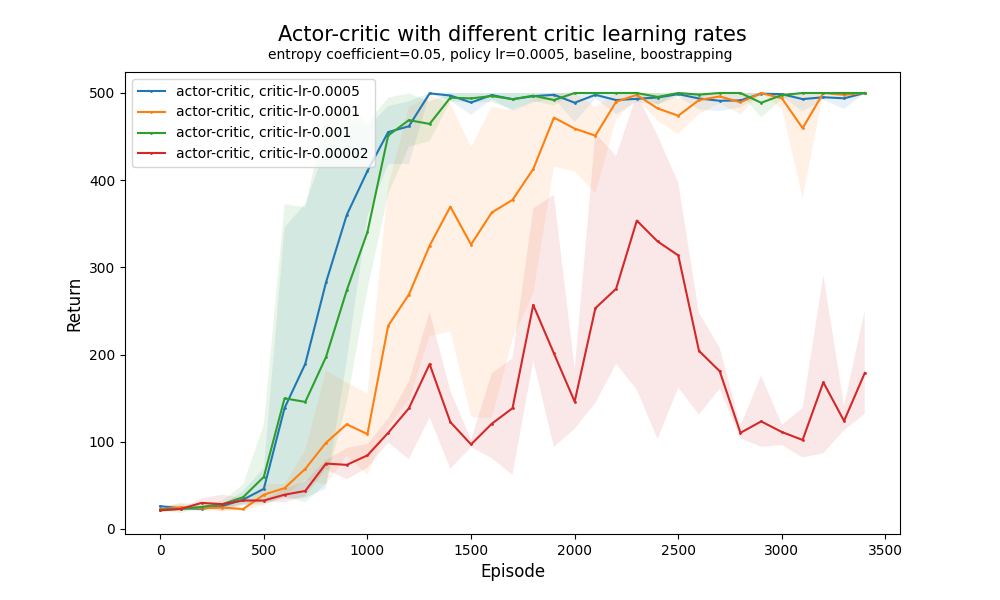
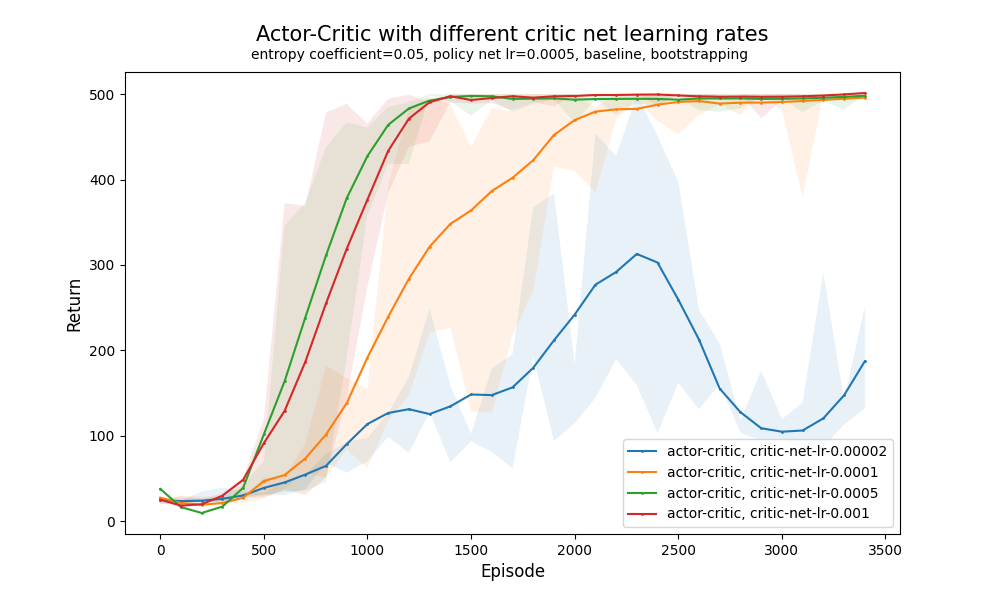
rebuild

diff --git a/plots/plotting_actor_critic_REINFORCE.py b/plots/plotting_actor_critic_REINFORCE.py
@@ -1,0 +1,73 @@
+import os
+
+import matplotlib.pyplot as plt
+import numpy as np
+
+from plotHelper import smooth
+
+# Get the list of files in the directory
+data_dir = './data4plot'
+files = os.listdir(data_dir)
+
+# Create a figure and axis
+fig, ax = plt.subplots()
+
+# Increase the figure size
+fig.set_size_inches(10, 6)
+# Plot each file as a separate line
+for file in files:
+    if 'actor-critic' in file or 'REINFORCE.npy' in file:
+        if 'ppo' in file:
+            continue
+        elif '0.01' in file:
+            continue
+        elif '0.002' in file:
+            continue
+        else:
+            file_path = os.path.join(data_dir, file)
+            data = np.load(file_path)
+            ks = np.arange(35)*100
+            avs = np.mean(data, axis=0)
+            maxs = np.max(data, axis=0)
+            mins = np.min(data, axis=0)
+            plt.fill_between(ks, mins, maxs, alpha=0.1)
+        # decide if the file name has two "."
+            is_two_dot = len(file.split('.')) == 3
+            if is_two_dot:
+
+                split_file = (file.split('.')[0] + '.' + file.split('.')[1]).split('_')
+                # remove the first element of the list
+                split_file.pop(0)
+                # combine split_file with ","
+                label = ", ".join(split_file)
+                # plt.plot(ks, avs, '-o', markersize=1, label=label)
+
+                plt.plot(ks, smooth(avs, 10), '-o', markersize=1, label=label)
+
+                plt.xlabel('Episode', fontsize = 12)
+                plt.ylabel('Return', fontsize = 12)
+                # ax.plot(data, label=file)
+            else:
+                split_file = (file.split('.')[0]).split('_')
+                # remove the first element of the list
+                split_file.pop(0)
+                label = ", ".join(split_file)
+                # plt.plot(ks, avs, '-o', markersize=1, label=label)
+
+                plt.plot(ks, smooth(avs, 10), '-o', markersize=1, label=label)
+
+                plt.xlabel('Episode', fontsize = 12)
+                plt.ylabel('Return', fontsize = 12)
+
+# Add legend
+ax.legend()
+# add title
+plt.title("Actor-Critic VS REINFORCE", fontsize = 15, y=1.05)
+# add subtitle and make it under the title
+plt.suptitle("policy net lr=0.0005, critic net lr=0.0005", fontsize = 10, y=0.92)
+# Use .fillbetween method to make the plot nicer
+# ...
+#save the plot to ./plots
+plt.savefig('./plots/actor_critic_REINFORCE.png')
+# Show the plot
+# plt.show()

diff --git a/plots/plotHelper.py b/plots/plotHelper.py
@@ -1,0 +1,57 @@
+#!/usr/bin/env python3
+# -*- coding: utf-8 -*-
+"""
+Practical for course 'Reinforcement Learning',
+Leiden University, The Netherlands
+By Thomas Moerland
+"""
+
+import numpy as np
+import matplotlib.pyplot as plt
+from scipy.signal import savgol_filter
+
+# Helper functions for plotting
+class LearningCurvePlot:
+
+    def __init__(self,title=None):
+        self.fig,self.ax = plt.subplots()
+        self.ax.set_xlabel('Timestep')
+        self.ax.set_ylabel('Episode Return')      
+        if title is not None:
+            self.ax.set_title(title)
+        
+    def add_curve(self,x,y,label=None):
+        ''' y: vector of average reward results
+        label: string to appear as label in plot legend '''
+        if label is not None:
+            self.ax.plot(x,y,label=label)
+        else:
+            self.ax.plot(x,y)
+    
+    def set_ylim(self,lower,upper):
+        self.ax.set_ylim([lower,upper])
+
+    def add_hline(self,height,label):
+        self.ax.axhline(height,ls='--',c='k',label=label)
+
+    def save(self,name='test.png'):
+        ''' name: string for filename of saved figure '''
+        self.ax.legend()
+        self.fig.savefig(name,dpi=300)
+
+def smooth(y, window, poly=2):
+    '''
+    y: vector to be smoothed 
+    window: size of the smoothing window '''
+    return savgol_filter(y,window,poly)
+
+
+
+if __name__ == '__main__':
+    # Test Learning curve plot
+    x = np.arange(100)
+    y = 0.01*x + np.random.rand(100) - 0.4 # generate some learning curve y
+    LCTest = LearningCurvePlot(title="Test Learning Curve")
+    LCTest.add_curve(x, y,label='method 1')
+    LCTest.add_curve(x, smooth(y,window=35),label='method 1 smoothed')
+    LCTest.save(name='learning_curve_test.png')

diff --git a/plots/plotting_actor_critic_entropy.py b/plots/plotting_actor_critic_entropy.py
@@ -3,6 +3,8 @@ import os
 import matplotlib.pyplot as plt
 import numpy as np
 
+from plotHelper import smooth
+
 # Get the list of files in the directory
 data_dir = './data4plot'
 files = os.listdir(data_dir)
@@ -17,7 +19,7 @@ for file in files:
     if 'actor-critic' in file:
         if 'ppo' in file:
             continue
-        if not 'baseline_boostrapping' in file:
+        if not 'baseline_bootstrapping' in file:
             continue
         else:
             file_path = os.path.join(data_dir, file)
@@ -32,7 +34,8 @@ for file in files:
             split_file.pop(0)
             # combine split_file with ","
             label = ", ".join(split_file)
-            plt.plot(ks, avs, '-o', markersize=1, label=label)
+            # plt.plot(ks, avs, '-o', markersize=1, label=label)
+            plt.plot(ks, smooth(avs, 10), '-o', markersize=1, label=label)
     
             plt.xlabel('Episode', fontsize = 12)
             plt.ylabel('Return', fontsize = 12)
@@ -41,9 +44,9 @@ for file in files:
 # Add legend
 ax.legend()
 # add title
-plt.title("Actor-critic with different entropy coefficients", fontsize = 15, y=1.05)
+plt.title("Actor-Critic with different entropy coefficients", fontsize = 15, y=1.05)
 # add subtitle and make it under the title
-plt.suptitle("policy lr=0.0005, critic lr=0.0005", fontsize = 10, y=0.92)
+plt.suptitle("policy net lr=0.0005, critic net lr=0.0005", fontsize = 10, y=0.92)
 #save the plot to ./plots
 plt.savefig('./plots/actor_critic_entropy.png')
 # Show the plot

diff --git a/plots/plotting_actor_critic_critic_lr.py b/plots/plotting_actor_critic_critic_lr.py
@@ -2,7 +2,7 @@ import os
 
 import matplotlib.pyplot as plt
 import numpy as np
-
+from plotHelper import smooth
 # Get the list of files in the directory
 data_dir = './data4plot/critic_lr'
 files = os.listdir(data_dir)
@@ -26,7 +26,8 @@ for file in files:
     split_file.pop(0)
     # combine split_file with ","
     label = split_file[0] + ', ' + split_file[4]
-    plt.plot(ks, avs, '-o', markersize=1, label=label)
+    # plt.plot(ks, avs, '-o', markersize=1, label=label)
+    plt.plot(ks, smooth(avs, 10), '-o', markersize=1, label=label)
     plt.xlabel('Episode', fontsize = 12)
     plt.ylabel('Return', fontsize = 12)
     # ax.plot(data, label=file)
@@ -34,9 +35,9 @@ for file in files:
 # Add legend
 ax.legend()
 # add title
-plt.title("Actor-critic with different critic learning rates", fontsize = 15, y=1.05)
+plt.title("Actor-Critic with different critic net learning rates", fontsize = 15, y=1.05)
 # add subtitle and make it under the title
-plt.suptitle("entropy coefficient=0.05, policy lr=0.0005, baseline, boostrapping", fontsize = 10, y=0.92)
+plt.suptitle("entropy coefficient=0.05, policy net lr=0.0005, baseline, bootstrapping", fontsize = 10, y=0.92)
 #save the plot to ./plots
 plt.savefig('./plots/actor_critic_critic_lr.png')
 # Show the plot

diff --git a/plots/plotting_actor_critic_policy_lr.py b/plots/plotting_actor_critic_policy_lr.py
@@ -3,6 +3,8 @@ import os
 import matplotlib.pyplot as plt
 import numpy as np
 
+from plotHelper import smooth
+
 # Get the list of files in the directory
 data_dir = './data4plot/policy_lr'
 files = os.listdir(data_dir)
@@ -26,7 +28,8 @@ for file in files:
     split_file.pop(0)
     # combine split_file with ","
     label = split_file[0] + ', ' + split_file[4]
-    plt.plot(ks, avs, '-o', markersize=1, label=label)
+    # plt.plot(ks, avs, markersize=1, label=label)
+    plt.plot(ks, smooth(avs, 10), '-o', markersize=1, label=label)
     plt.xlabel('Episode', fontsize = 12)
     plt.ylabel('Return', fontsize = 12)
     # ax.plot(data, label=file)
@@ -34,9 +37,9 @@ for file in files:
 # Add legend
 ax.legend()
 # add title
-plt.title("Actor-critic with different policy learning rates", fontsize = 15, y=1.05)
+plt.title("Actor-Critic with different policy net learning rates", fontsize = 15, y=1.05)
 # add subtitle and make it under the title
-plt.suptitle("entropy coefficient=0.05, critic lr=0.0005, baseline, boostrapping", fontsize = 10, y=0.92)
+plt.suptitle("entropy coefficient=0.05, critic net lr=0.0005, baseline, bootstrapping", fontsize = 10, y=0.92)
 #save the plot to ./plots
 plt.savefig('./plots/actor_critic_policy_lr.png')
 # Show the plot

diff --git a/plots/plotting_actor_critic.py b/plots/plotting_actor_critic.py
@@ -3,6 +3,8 @@ import os
 import matplotlib.pyplot as plt
 import numpy as np
 
+from plotHelper import smooth
+
 # Get the list of files in the directory
 data_dir = './data4plot'
 files = os.listdir(data_dir)
@@ -34,7 +36,9 @@ for file in files:
             split_file.pop(0)
             # combine split_file with ","
             label = ", ".join(split_file)
-            plt.plot(ks, avs, '-o', markersize=1, label=label)
+            # plt.plot(ks, avs, '-o', markersize=1, label=label)
+
+            plt.plot(ks, smooth(avs, 10), '-o', markersize=1, label=label)
 
             plt.xlabel('Episode', fontsize = 12)
             plt.ylabel('Return', fontsize = 12)
@@ -43,9 +47,9 @@ for file in files:
 # Add legend
 ax.legend()
 # add title
-plt.title("Different varients of actor-critic", fontsize = 15, y=1.05)
+plt.title("Different varients of Actor-Critic", fontsize = 15, y=1.05)
 # add subtitle and make it under the title
-plt.suptitle("policy lr=0.0005, critic lr=0.0005", fontsize = 10, y=0.92)
+plt.suptitle("policy net lr=0.0005, critic net lr=0.0005", fontsize = 10, y=0.92)
 # Use .fillbetween method to make the plot nicer
 # ...
 #save the plot to ./plots

diff --git a/plots/plotting_reinforcement.py b/plots/plotting_reinforcement.py
@@ -3,6 +3,8 @@ import os
 import matplotlib.pyplot as plt
 import numpy as np
 
+from plotHelper import smooth
+
 # Get the list of files in the directory
 data_dir = './data4plot'
 files = os.listdir(data_dir)
@@ -45,7 +47,8 @@ for file in files:
             label = split_file[1] + ', ' + split_file[2] + ', ' + split_file[3]
         else:
             label = split_file[1] + ', ' + split_file[2] + ', ' + split_file[3]
-        plt.plot(ks, avs, '-o', markersize=1, label=label)
+        # plt.plot(ks, avs, '-o', markersize=1, label=label)
+        plt.plot(ks, smooth(avs, 10), '-o', markersize=1, label=label)
 
         plt.xlabel('Episode', fontsize = 15)
         plt.ylabel('Return', fontsize = 15)

diff --git a/plots/plotting_ppo.py b/plots/plotting_ppo.py
@@ -3,6 +3,8 @@ import os
 import matplotlib.pyplot as plt
 import numpy as np
 
+from plotHelper import smooth
+
 # Get the list of files in the directory
 data_dir = './data4plot'
 files = os.listdir(data_dir)
@@ -44,7 +46,8 @@ for file in files:
             print(len(mins))
             plt.fill_between(ks, mins, maxs, alpha=0.1)
             label = "actor-critic, PPO"
-            plt.plot(ks, avs, '-o', markersize=1, label=label)
+            # plt.plot(ks, avs, '-o', markersize=1, label=label)
+            plt.plot(ks, smooth(avs, 10), '-o', markersize=1, label=label)
             plt.xlabel('Episode', fontsize = 12)
             plt.ylabel('Return', fontsize = 12)
     

diff --git a/plots/plotting_reinforcement_entropy.py b/plots/plotting_reinforcement_entropy.py
@@ -3,6 +3,8 @@ import os
 import matplotlib.pyplot as plt
 import numpy as np
 
+from plotHelper import smooth
+
 # Get the list of files in the directory
 data_dir = './data4plot'
 files = os.listdir(data_dir)
@@ -27,7 +29,8 @@ for file in files:
             label = split_file[1]
         else:
             label = split_file[3] + ', policy lr=0.0005, baseline lr=0.0005'
-        plt.plot(ks, avs, '-o', markersize=1, label=label)
+        # plt.plot(ks, avs, '-o', markersize=1, label=label)
+        plt.plot(ks, smooth(avs, 10), '-o', markersize=1, label=label)
 
         plt.xlabel('Episode', fontsize = 12)
         plt.ylabel('Return', fontsize = 12)

diff --git a/README.md b/README.md
@@ -1,2 +1,3 @@
-# RL_tutorial_notebook
-Introductory jupyter notebook for various RL concept
+## words for TA
+#### If you're having trouble with the code on bright space, we highly recommend cloning our github repo, and to be fair, we won't commit new code after due.
+##### https://github.com/LI-SUJU/RL_A3_policy_based
